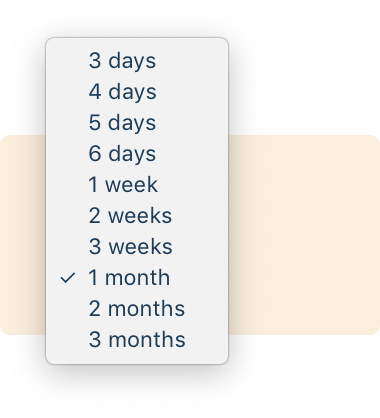
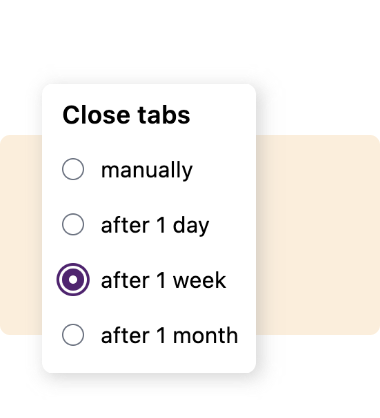
Update Tab Tosser marketing to match v3.3 release

Changed region(s): [[0.0868, 0.0933, 0.6947, 0.9019], [0.1737, 0.0622, 0.55, 0.0933]]

diff --git a/site/tab-tosser/index.html b/site/tab-tosser/index.html
@@ -26,7 +26,7 @@
 			<h1 class="font-hairline purple p-2 lg:pb-6">How to use</h1>
 			<p>Install Tab Tosser from <a href="https://addons.mozilla.org/en-US/firefox/addon/tab-tosser/" class="purple">Firefox Add-ons</a>. (Fear not. No tabs will be closed until you tell Tab Tosser to start.)</p>
 		</div>
-		<div class="setup-2 lg:w-1/3 lg:mr-6">Configure how long a tab should have been ignored before it is closed. You can pick between a few days, a few weeks, or a few months.</div>
+		<div class="setup-2 lg:w-1/3 lg:mr-6">Configure how long a tab should have been ignored before it is closed. You can pick between a day, a week, or a month.</div>
 		<div class="setup-3 lg:w-1/3">Enjoy the cognitive relief of having fewer open tabs.</div>
 	</section>
 
@@ -37,15 +37,15 @@
 		<p class="mb-8">A tab will be closed when it has not been viewed for longer than the tab expiration time you set.</p>
 
 		<p class="font-bold">How long can I keep a tab around?</p>
-		<p class="mb-8">The tab expiration period options are 3–6 days, 1–3 weeks, 1–3 months.</p>
+		<p class="mb-8">The tab expiration period options are 24 hours, 1 week, or 1 month.</p>
 
 		<p class="font-bold">What happens when I have not accessed a tab within the expiration time period?</p>
 		<p class="mb-2">The tab is closed, quietly and without warning.</p>
-		<p class="mb-2">Because losing tabs may be scary, the URL and title of the closed tab is logged. The log of closed tabs is viewable in Tab Tosser’s settings in the Firefox add-on manager. The log is kept for the duration of the tab expiration period setting. For example, if the tab expiration period is set to 1 week, the closed tab will stay in the log for 1 week.</p>
+		<p class="mb-2">Because losing tabs may be scary, the URL and title of the closed tab is logged. The log of closed tabs is viewable in Tab Tosser’s settings in the Firefox add-on manager. The log is kept for 30 days.</p>
 		<p class="mb-8">A count of the number of tabs closed is incremented. This is viewable in Tab Tosser’s settings in the <a href="about:addons" class="purple">Firefox add-on manager</a>.</p>
 
 		<p class="font-bold">What happens if I go on vacation?</p>
-		<p class="mb-8">Tab Tosser’s vacation detection feature will activate when you have not used Firefox for longer than the tab expiration period. Tab Tosser will pause closing tabs for 2–7 days depending on your tab expiration period.</p>
+		<p class="mb-8">Tab Tosser’s vacation detection feature will activate when you have not used Firefox for longer than the tab expiration period. Tab Tosser will pause closing tabs for an additional tab expiration period.</p>
 
 		<p class="font-bold">Are pinned tabs special?</p>
 		<p>Yes, <a href="https://support.mozilla.org/en-US/kb/pinned-tabs-keep-favorite-websites-open?ref=JeremiahLee" class="purple">pinned tabs</a> are special. Tab Tosser will never close a pinned tab.</p>
